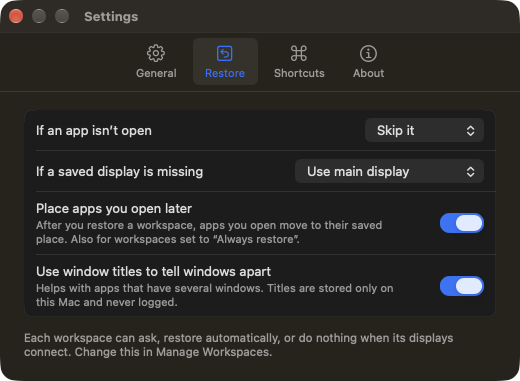
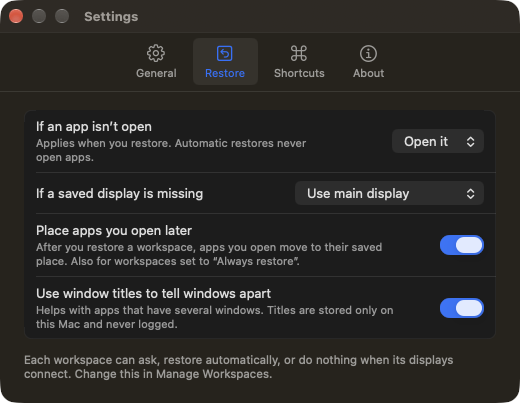
Document v0.1.1 and bump the version
- README / README.tr: opening missing apps, right-click, Dock and Cmd+Tab
  while windows are open, keep on top; updated limitations row
- BEHAVIOR.md: open-apps rules and a section on the menu bar icon and
  DockState's windows; TESTING.md: self-test step 7, demo flags, new manual
  checks; ARCHITECTURE.md: status item and activation policy
- Screenshots regenerated in English and Turkish (menu bar panel taken from
  the real panel, preview showing 'Will open', Manage, restore settings)
- Version 0.1.1

diff --git a/README.tr.md b/README.tr.md
@@ -60,10 +60,11 @@ Siz onay vermeden hiçbir pencere taşınmaz.
 - **Yalnızca “2 ekran” değil, masanızı tanır** — monitörler EDID üretici/model/seri numarası, ekran UUID’si ve yerleşimle tanımlanır. Farklı porta takılan veya çözünürlüğü değişen monitör yine *sizin* monitörünüzdür; aynı modelden iki monitör konumlarıyla ayırt edilir. Fazladan bir ekran (Sidecar, projeksiyon, kapağı açmak) masanızın tanınmasını engellemez.
 - **Taşımadan önce önizleme** — Şimdi / Sonra haritası ve kesin listeler: *taşınacak*, *zaten yerinde*, *geri yüklenmeyecek (ve nedeni)*.
 - **Geri alma** — her pencereyi geri yükleme öncesindeki yerine koyar. Sonradan sizin taşıdığınız pencerelere dokunmaz.
-- **Kısmi başarısızlık sorun değil** — açık olmayan bir uygulama ya da kapatılmış bir pencere nedeniyle birlikte bildirilir (*Aç ve Yerleştir* düğmesiyle) ve diğerlerini asla durdurmaz.
+- **Eksikleri açar** — bir çalışma alanını geri yüklediğinizde açık olmayan uygulamaları açar ve pencerelerini yerine koyar (sizin başlattığınız geri yüklemelerde; otomatik olanlar asla uygulama açmaz).
+- **Kısmi başarısızlık sorun değil** — kapatılmış bir pencere ya da açılamayan bir uygulama nedeniyle birlikte bildirilir ve diğerlerini asla durdurmaz.
 - **Otomasyonu siz seçersiniz** — her çalışma alanı için: *Bana sor* (bildirim, varsayılan), *Her zaman geri yükle* veya *Hiçbir şey yapma*. Otomatik geri yükleme yalnızca ekran düzeni gerçekten değiştiğinde olur — sıradan bir uyanma veya kilit açmada asla.
 - **Sonradan açtığınız uygulamalar** — bir çalışma alanını geri yükledikten sonra açtığınız uygulama (on dakika sonra açılan Slack) da kayıtlı yerine gider. Kendi Geri Al düğmesiyle.
-- **Menü çubuğu öncelikli** — gözünüzün önünden çekilir; pencereler yerinde değilse simgede bir nokta, izin eksikse bir rozet görünür.
+- **Menü çubuğu öncelikli** — gözünüzün önünden çekilir; simgeye sol veya sağ tıklayın. Pencereler yerinde değilse simgede bir nokta, izin eksikse bir rozet görünür. Bir DockState penceresi açıkken Dock’ta ve Cmd+Tab’de de görünür; pencereleri en üstte kalır (Ayarlar › Genel), böylece düzenlediğiniz uygulamaların arkasında kaybolmaz.
 - **İsterseniz klavye kısayolları** — kaydet, eşleşen düzeni geri yükle, geri al. Varsayılan olarak kapalıdır (genel kısayollar her uygulamada aynı tuşları devralır); Ayarlar’dan kendi kısayollarınızı kaydedin.
 - **Türkçe ve İngilizce**, uygulama içinden dil değiştirme. Yeni dillere katkı memnuniyetle karşılanır.
 
@@ -94,7 +95,7 @@ DockState yalnızca Apple’ın herkese açık API’lerini kullanır — özel 
 | --- | --- |
 | Geçerli Alan’daki normal pencereler | ✅ Kaydedilir ve geri yüklenir |
 | Bir uygulamanın birden çok penceresi | ✅ Başlık, boyut, ekran ve sırayla eşleştirilir; iki pencere ayırt edilemiyorsa DockState **tahmin etmek yerine atlar** |
-| Uygulama açık değil | ⏭ Bildirilir; *Aç ve Yerleştir* uygulamayı açıp penceresini yerleştirir (ya da elle geri yüklemeler için *Önce aç* seçin) |
+| Uygulama açık değil | ✅ Geri yüklediğinizde açılır ve yerleştirilir (Ayarlar › Geri Yükle › *Bir uygulama açık değilse*); otomatik geri yüklemeler bunu yalnızca bildirir |
 | Geri yüklemeden sonra açılan uygulama | ✅ Otomatik yerleştirilir (Ayarlar › Geri Yükle › *Sonradan açtığınız uygulamaları yerleştir*) |
 | Kaydedildikten sonra kapatılan pencere | ⏭ Kapatıldığı bildirilir |
 | Küçültülmüş pencereler | ⏭ Küçültülmüş bırakılır ve bildirilir |

diff --git a/README.md b/README.md
@@ -60,10 +60,11 @@ Nothing moves without you saying so.
 - **Recognizes your desk, not just "2 displays"** — monitors are identified by EDID vendor/model/serial, display UUID and arrangement, so a monitor on a different port or a changed resolution is still *your* monitor, and two identical monitors are told apart by position. An extra display (Sidecar, a projector, opening the lid) doesn't stop your desk from being recognized.
 - **Preview before anything moves** — a Now / After map plus exact lists: *will move*, *already in place*, *won't restore (and why)*.
 - **Undo** — puts every window back where it was before the restore. Windows you've moved since are left alone.
-- **Partial failures are fine** — an app that isn't open or a window that was closed is reported with a reason (and an *Open & Place* button), and never stops the rest.
+- **Opens what's missing** — restoring a workspace opens apps that aren't running and puts their windows in place (restores you start yourself; automatic ones never launch apps).
+- **Partial failures are fine** — a window that was closed or an app that can't be opened is reported with a reason, and never stops the rest.
 - **You choose the automation** — per workspace: *Ask me* (notification, default), *Always restore*, or *Do nothing*. Automatic restores happen only when the display setup actually changes — never on a plain wake or unlock.
 - **Apps you open later** — after you restore a workspace, an app you open afterwards (Slack ten minutes later) goes to its saved place too. With its own Undo.
-- **Menu bar first** — stays out of the way; the icon shows a dot when windows are out of place and a badge when permission is missing.
+- **Menu bar first** — stays out of the way; left- or right-click the icon. It shows a dot when windows are out of place and a badge when permission is missing. While a DockState window is open it's also in the Dock and Cmd+Tab, and its windows stay on top (Settings › General) so they don't get lost behind the apps you're arranging.
 - **Keyboard shortcuts, if you want them** — save, restore matching workspace, undo. Off by default (global shortcuts take over the same keys in every app); record your own in Settings.
 - **English and Türkçe**, with an in-app language switch. More languages welcome.
 
@@ -94,7 +95,7 @@ DockState uses only public Apple APIs — no private frameworks, no SIP changes.
 | --- | --- |
 | Normal windows on the current Space | ✅ Saved and restored |
 | Several windows of one app | ✅ Matched by title, size, display and order; if two windows can't be told apart, DockState **skips them rather than guess** |
-| App not running | ⏭ Reported; *Open & Place* launches it and places its window (or set *Open it first* for manual restores) |
+| App not running | ✅ Opened and placed when you restore (Settings › Restore › *If an app isn't open*); automatic restores report it instead |
 | App opened after a restore | ✅ Placed automatically (Settings › Restore › *Place apps you open later*) |
 | Window closed since saving | ⏭ Reported as closed |
 | Minimized windows | ⏭ Left minimized and reported |

diff --git a/docs/TESTING.md b/docs/TESTING.md
@@ -2,7 +2,7 @@
 
 ## Automated (CI, no permissions needed)
 
-`cd Packages/DockStateKit && swift test` runs the Swift Testing suite (94 tests):
+`cd Packages/DockStateKit && swift test` runs the Swift Testing suite (96 tests):
 
 | Area | Covered |
 | --- | --- |
@@ -42,7 +42,9 @@ so the test never touches your own apps. Using a throw-away store, the self-test
 3. undoes and checks the window went back;
 4. checks an excluded window is never planned for a move;
 5. relaunches the app right after Undo and checks it is **not** placed (consent withdrawn);
-6. restores again, relaunches, and checks the window **is** placed.
+6. restores again, relaunches, and checks the window **is** placed;
+7. moves the window away, quits the app, restores, and checks DockState **opened the app and placed its
+   window**, and that the result reports the opened app.
 
 `-DockStateSelfTestApp` can target another app (e.g. `com.apple.TextEdit`); steps 5–6 are skipped unless that
 app's only window is the given `-DockStateSelfTestFile` document.
@@ -50,7 +52,7 @@ app's only window is the given `-DockStateSelfTestFile` document.
 ## Demo mode (Debug builds)
 
 `-DockStateDemo YES` replaces live data with a fictional three-display desk (no real windows are read or
-moved, nothing is saved). Combine with `-DockStateOpen popover|preview|result|manage|permission|firstSave|settings|icons`
+moved, nothing is saved, no apps are launched). Combine with `-DockStateOpen menubar|popover|preview|result|manage|permission|firstSave|settings|icons`
 to open a screen directly, `-DockStateTab general|restore|shortcuts|about` for Settings,
 `-DockStateDemoArranged YES` for an arranged desk with nothing saved, and `-AppleLanguages "(tr)"` for Turkish.
 All README screenshots are made this way, so no real window titles end up in the repository. Check new UI in
@@ -86,4 +88,7 @@ to display handling, matching or restore.
 - [ ] Corrupt `workspaces.json` by hand → alert, backup kept, app starts empty
 - [ ] Update check: off by default; *Check Now* → "up to date" or the new version
 - [ ] Language switch English ↔ Türkçe; light and dark mode
-- [ ] Clicking the real menu bar icon: popover opens, and closes after choosing an action
+- [ ] Left- and right-click the real menu bar icon: the panel opens; Esc, an outside click or another click closes it
+- [ ] With Manage open: DockState is in the Dock and Cmd+Tab; after closing it, it isn't, and focus returns to the previous app
+- [ ] Keep on top: Manage stays above other apps; turning it off in Settings applies immediately; a GitHub link opens in front
+- [ ] Restore with an app quit (e.g. VS Code): it opens and its window is placed; with *Skip it* it's only reported

diff --git a/docs/BEHAVIOR.md b/docs/BEHAVIOR.md
@@ -50,11 +50,25 @@ Automatic restores never launch apps.
 - A window that can't take the exact size (minimum sizes, Terminal's character grid) counts as in place once
   it got as close as the app allows.
 - Windows that straddle displays or hang off an edge stay that way as long as their title bar is reachable.
-- **If an app isn't open → Open it first** (manual restores only) launches missing apps and waits for their
-  windows. Otherwise use *Open & Place* in the preview or the result card — it also works for a running app
+- **If an app isn't open → Open it** (the default) launches missing apps when *you* restore — from the
+  preview, the menu bar, a notification or the shortcut — and places their windows once they appear (also
+  windows that show up after a splash or welcome window). The preview lists them under *Will open*, and the
+  result card says which apps were opened. Only apps whose windows have somewhere to go are opened; apps
+  that aren't installed are reported as such. Automatic (*Always restore*) restores never launch apps.
+  With **Skip it**, use *Open & Place* in the preview or the result card — it also works for a running app
   that has no window open.
 - **If a saved display is missing → Use main display** places those windows proportionally on the main
   display; **Leave windows in place** skips them.
+
+## The menu bar icon and DockState's windows
+
+- Left- or right-click the icon to open the panel. Esc, a click elsewhere or another click on the icon closes it.
+- While any DockState window (Manage, Settings, Preview, Save, onboarding) is open, DockState also shows in the
+  Dock and in Cmd+Tab; when the last one closes it goes back to being a menu bar app and focus returns to the
+  app you were in. Clicking the Dock icon brings the open windows forward.
+- *Settings › General › Keep DockState windows on top* (on by default) keeps those windows above other apps'
+  windows. Onboarding never floats (System Settings must stay visible while you grant permission), links open
+  in front of them, and the result card and toasts stay above them.
 
 ## Apps opened later
 

diff --git a/docs/ARCHITECTURE.md b/docs/ARCHITECTURE.md
@@ -5,7 +5,7 @@ Reliability lives in a pure-Swift core that is unit-tested; the parts that touch
 
 ```
 ┌──────────────────────── DockState.app (UI) ────────────────────────┐
-│ MenuBarExtra popover · Onboarding · Preview · Result card · Manage │
+│ Status item + panel · Onboarding · Preview · Result card · Manage  │
 │ Settings · Notifications · Shortcuts · Login item · Update check   │
 │                AppModel (@MainActor, @Observable)                  │
 └───────────────┬─────────────────────────────────┬──────────────────┘
@@ -41,6 +41,10 @@ If a display's size changed, the frame is mapped proportionally onto its usable 
 **Decisions are pure functions.** What to do after displays settle (`AutoRestorePolicy`), whether an app opened
 later may be placed (`LatePlacementPolicy`), which workspace wins (`WorkspaceRecognizer`), what a restore
 will do (`RestorePlanner`) — all live in the core with tests. `AppModel` only gathers inputs and acts.
+
+**Menu bar and windows.** The menu bar icon is an AppKit `NSStatusItem` with a borderless panel (SwiftUI's
+`MenuBarExtra` can't handle right-click or be closed programmatically). `WindowRouter` opens DockState's
+windows; while any is open the app is `.regular` (Dock, Cmd+Tab) and otherwise an `.accessory` agent.
 
 ## Display recognition
 
